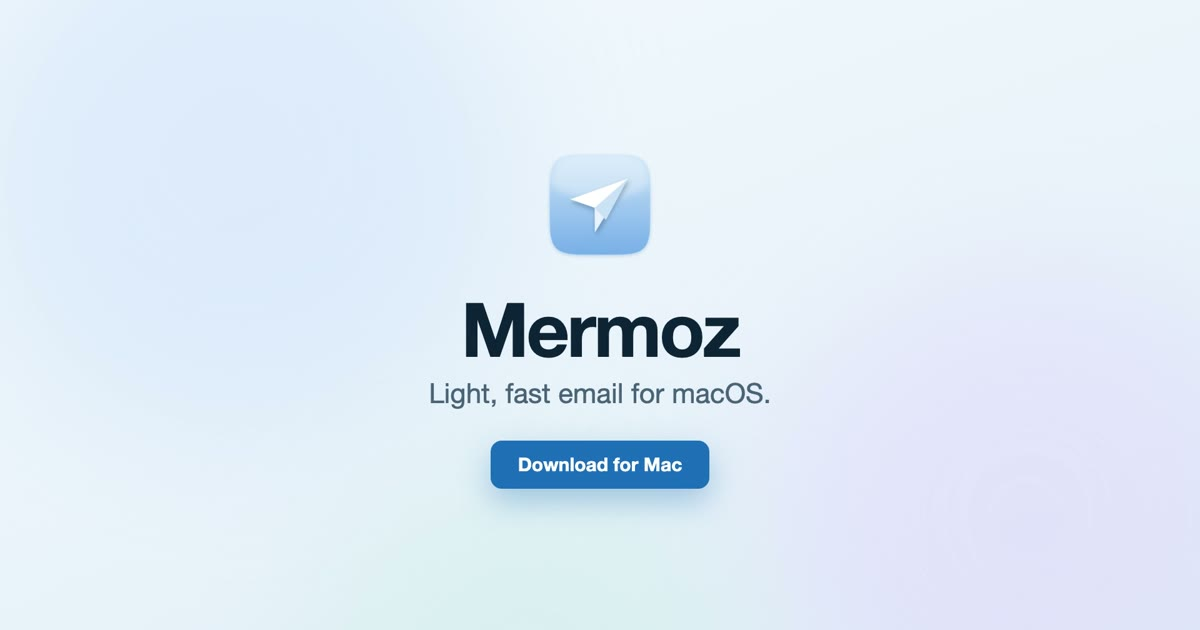
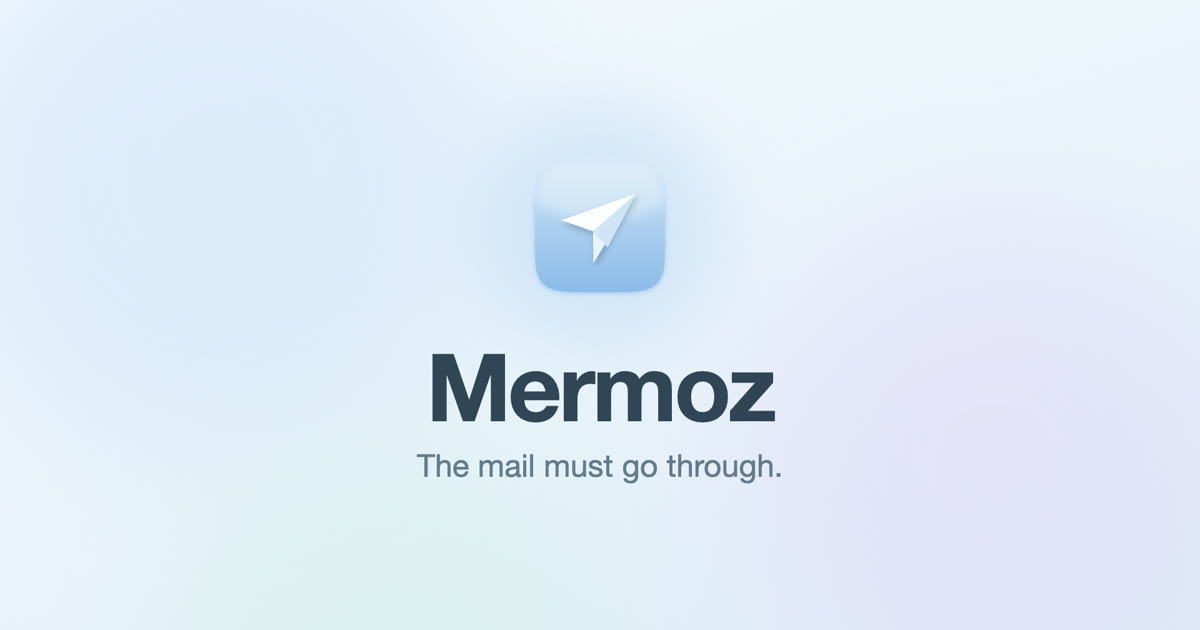
site: private beta sign-up; release plan
- the site reads as a private beta (banner, pill, title) and its main action is
  joining the list: the address goes to the 'Mermoz private beta' Google Form;
  download stays available for invited testers
- richer share tags (image size, type, alt, twitter:image) and a share image
  carrying the tagline
- docs/release-plan.md: private beta ops (admitting testers, invitation), signed
  and notarized builds with auto-update, Google verification, public launch

Changed region(s): [[0.3392, 0.2714, 0.6475, 0.8143]]

diff --git a/site/index.html b/site/index.html
@@ -3,7 +3,7 @@
 <head>
   <meta charset="utf-8">
   <meta name="viewport" content="width=device-width, initial-scale=1">
-  <title>Mermoz — The mail must go through</title>
+  <title>Mermoz — The mail must go through · Private beta</title>
   <meta name="description" content="Mermoz is a light, fast email app for macOS. New mail is sorted before you read it, one key handles a thread, and your whole mailbox lives on your Mac.">
   <link rel="canonical" href="https://mermoz.xyz/">
   <link rel="icon" type="image/png" href="assets/favicon.png">
@@ -11,9 +11,16 @@
   <meta property="og:type" content="website">
   <meta property="og:url" content="https://mermoz.xyz/">
   <meta property="og:title" content="Mermoz — The mail must go through">
-  <meta property="og:description" content="A light, fast email app for macOS, named after the Aéropostale pilot. Sorted before you read it. One key, done.">
+  <meta property="og:site_name" content="Mermoz">
+  <meta property="og:description" content="Private beta. A light, fast email app for macOS, named after the Aéropostale pilot. Sorted before you read it. One key, done.">
   <meta property="og:image" content="https://mermoz.xyz/assets/og.jpg">
+  <meta property="og:image:secure_url" content="https://mermoz.xyz/assets/og.jpg">
+  <meta property="og:image:type" content="image/jpeg">
+  <meta property="og:image:width" content="1200">
+  <meta property="og:image:height" content="630">
+  <meta property="og:image:alt" content="Mermoz — The mail must go through">
   <meta name="twitter:card" content="summary_large_image">
+  <meta name="twitter:image" content="https://mermoz.xyz/assets/og.jpg">
   <meta name="theme-color" content="#EAF3FB">
   <link rel="preconnect" href="https://fonts.googleapis.com">
   <link rel="preconnect" href="https://fonts.gstatic.com" crossorigin>
@@ -36,6 +43,8 @@
     </filter>
   </svg>
 
+  <div class="beta-bar">Mermoz is in <strong>private beta</strong> — <a href="#beta">join the list</a> and we'll open your access.</div>
+
   <header class="nav">
     <a class="brand" href="#top"><img src="assets/icon.png" alt="" width="34" height="34"> Mermoz</a>
     <nav>
@@ -43,7 +52,7 @@
       <a href="#features">Features</a>
       <a href="#agents">Agents</a>
       <a href="#story">Spirit</a>
-      <a class="nav-cta" href="#download">Download</a>
+      <a class="nav-cta" href="#beta">Join the beta</a>
     </nav>
   </header>
 
@@ -62,17 +71,19 @@
         </div>
       </div>
       <div class="hero-copy">
-        <p class="eyebrow">Mail for macOS · and for your agents</p>
+        <p class="eyebrow"><span class="beta-pill">Private beta</span> Mail for macOS · and for your agents</p>
         <h1 id="hero-title">The mail<br><em>must go through.</em></h1>
         <p class="lede">New mail is sorted before you read it. One key handles a thread. Your whole mailbox lives on your Mac, quiet and instant.</p>
-        <div class="ctas">
-          <a class="btn primary" href="https://github.com/ClementWalter/mermoz/releases/latest/download/Mermoz.dmg" data-download>
-            <svg viewBox="0 0 24 24" width="20" height="20" aria-hidden="true"><path fill="currentColor" d="M16.4 12.6c0-2.4 2-3.5 2-3.6-1.1-1.6-2.8-1.8-3.4-1.8-1.4-.1-2.8.9-3.5.9s-1.9-.9-3.1-.8c-1.6 0-3.1.9-3.9 2.4-1.7 2.9-.4 7.2 1.2 9.6.8 1.2 1.7 2.5 3 2.4 1.2 0 1.7-.8 3.1-.8 1.5 0 1.9.8 3.1.8 1.3 0 2.1-1.2 2.9-2.4.9-1.3 1.3-2.6 1.3-2.7 0 0-2.7-1-2.7-4zM14 5.4c.7-.8 1.1-1.9 1-3-1 0-2.1.7-2.8 1.5-.6.7-1.2 1.8-1 2.9 1.1.1 2.1-.6 2.8-1.4z"/></svg>
-            Download for Mac
-          </a>
-          <a class="btn ghost" href="#film">Watch the film <span aria-hidden="true">→</span></a>
+        <div class="hero-form">
+          <form class="beta-form" data-beta-form data-source="hero" novalidate>
+            <label class="sr-only" for="email-hero">Your email</label>
+            <input id="email-hero" type="email" name="email" placeholder="you@gmail.com" autocomplete="email" required>
+            <input class="hp" type="text" name="company" tabindex="-1" autocomplete="off" aria-hidden="true">
+            <button class="btn primary" type="submit">Join the beta</button>
+            <p class="form-msg" role="status" aria-live="polite"></p>
+          </form>
         </div>
-        <p class="fine">Free &amp; open source · macOS 26 · Gmail · Command line &amp; MCP built in</p>
+        <p class="fine">Free &amp; open source · macOS 26 · Gmail · <a href="#film">Watch the film</a> · Already invited? <a href="https://github.com/ClementWalter/mermoz/releases/latest/download/Mermoz.dmg" data-download>Download for Mac</a></p>
         <p class="note note-hero" aria-hidden="true">sorted in 0.25 s ↓</p>
       </div>
     </section>
@@ -173,13 +184,20 @@ the user to approve it in Mermoz.</span>  <span class="o"># exit 3</span></pre>
       </div>
     </section>
 
-    <section class="download" id="download" aria-labelledby="download-title">
+    <section class="download" id="beta" aria-labelledby="beta-title">
       <div class="paper-card download-card reveal">
+        <span class="beta-pill">Private beta</span>
         <img src="assets/icon.png" alt="Mermoz icon" width="112" height="112">
-        <h2 id="download-title">Take off.</h2>
-        <p>Mermoz is free and open source. Sign in with Gmail and your mail is on your Mac in minutes.</p>
-        <a class="btn primary big" href="https://github.com/ClementWalter/mermoz/releases/latest/download/Mermoz.dmg" data-download>Download for Mac</a>
-        <p class="fine">Requires macOS 26 · <a href="https://github.com/ClementWalter/mermoz">Source on GitHub</a></p>
+        <h2 id="beta-title">Board the first flights.</h2>
+        <p>Mermoz is in private beta while Google reviews its Gmail access. Leave the Gmail address you'll use, and we'll add it to the passenger list and email you when you can sign in.</p>
+        <form class="beta-form" data-beta-form data-source="bottom" novalidate>
+            <label class="sr-only" for="email-bottom">Your email</label>
+            <input id="email-bottom" type="email" name="email" placeholder="you@gmail.com" autocomplete="email" required>
+            <input class="hp" type="text" name="company" tabindex="-1" autocomplete="off" aria-hidden="true">
+            <button class="btn primary" type="submit">Join the beta</button>
+            <p class="form-msg" role="status" aria-live="polite"></p>
+          </form>
+        <p class="fine">Free &amp; open source · macOS 26 · Already invited? <a href="https://github.com/ClementWalter/mermoz/releases/latest/download/Mermoz.dmg" data-download>Download for Mac</a> · <a href="https://github.com/ClementWalter/mermoz">Source on GitHub</a></p>
       </div>
     </section>
   </main>

diff --git a/site/style.css b/site/style.css
@@ -49,10 +49,60 @@ kbd {
   box-shadow: 0 1px 0 var(--line);
 }
 
+/* Private beta: the banner on top, the pill, and the sign-up form. */
+.beta-bar {
+  position: fixed;
+  top: 0;
+  left: 0;
+  right: 0;
+  z-index: 45;
+  text-align: center;
+  font-size: 14px;
+  padding: 9px 16px;
+  background: var(--accent);
+  color: #fff;
+}
+.beta-bar a { color: #fff; font-weight: 600; }
+.beta-pill {
+  display: inline-block;
+  font-size: 12px;
+  font-weight: 700;
+  letter-spacing: 0.08em;
+  text-transform: uppercase;
+  color: var(--accent);
+  background: var(--accent-soft);
+  border: 1px solid #fff;
+  border-radius: 999px;
+  padding: 4px 10px;
+  margin-right: 8px;
+}
+.download-card .beta-pill { margin: 0 0 14px; }
+.beta-form { display: flex; flex-wrap: wrap; gap: 10px; justify-content: center; max-width: 520px; margin: 0 auto; }
+.beta-form input[type="email"] {
+  flex: 1 1 260px;
+  font: inherit;
+  font-size: 17px;
+  padding: 15px 18px;
+  border-radius: 16px;
+  border: 1px solid #fff;
+  background: rgba(255, 255, 255, 0.85);
+  box-shadow: inset 0 0 0 1px var(--line), 0 10px 30px rgba(31, 111, 181, 0.10);
+  color: var(--ink);
+}
+.beta-form input[type="email"]:focus { outline: 2px solid var(--accent); outline-offset: 1px; }
+.beta-form button { border: 0; cursor: pointer; font: inherit; font-weight: 600; font-size: 17px; }
+.beta-form .hp { position: absolute; left: -9999px; width: 1px; height: 1px; opacity: 0; }
+.form-msg { flex-basis: 100%; margin: 4px 0 0; font-size: 15px; min-height: 1.2em; text-align: center; color: var(--ink-2); }
+.form-msg.ok { color: #2E9A6B; font-weight: 600; }
+.form-msg.err { color: #C93A3A; }
+.beta-form.done input, .beta-form.done button { display: none; }
+.sr-only { position: absolute; width: 1px; height: 1px; overflow: hidden; clip: rect(0 0 0 0); white-space: nowrap; }
+.hero-form { margin-top: 6px; }
+
 /* Navigation: a floating glass bar. */
 .nav {
   position: fixed;
-  top: 16px;
+  top: 52px;
   left: 50%;
   transform: translateX(-50%);
   z-index: 40;
@@ -82,7 +132,7 @@ kbd {
   display: flex;
   align-items: center;
   justify-content: center;
-  padding: 130px 24px 80px;
+  padding: 170px 24px 80px;
   overflow: hidden;
   background:
     radial-gradient(1200px 600px at 20% 10%, #F8FBFF 0%, transparent 60%),

diff --git a/site/main.js b/site/main.js
@@ -149,6 +149,39 @@
     requestAnimationFrame(frame);
   }
 
+  // Beta sign-up: the address goes to the Mermoz beta Google Form (its responses are
+  // the passenger list). A cross-origin POST can't be read back, so success means the
+  // request left; the hidden "company" field catches bots.
+  const FORM = "https://docs.google.com/forms/d/e/1FAIpQLSfmXDOdAhuseGM4E348LK5xBR31b9Xdkbu0ergYQw81jB2ZOg/formResponse";
+  const EMAIL_FIELD = "entry.1376824829";
+  document.querySelectorAll("[data-beta-form]").forEach((form) => {
+    const msg = form.querySelector(".form-msg");
+    form.addEventListener("submit", async (e) => {
+      e.preventDefault();
+      const email = form.email.value.trim();
+      if (form.company.value) return;
+      if (!/^[^@\s]+@[^@\s]+\.[^@\s]+$/.test(email)) {
+        msg.className = "form-msg err";
+        msg.textContent = "That address doesn't look right.";
+        return;
+      }
+      const button = form.querySelector("button");
+      button.disabled = true;
+      button.textContent = "Sending…";
+      try {
+        await fetch(FORM, { method: "POST", mode: "no-cors", body: new URLSearchParams({ [EMAIL_FIELD]: email }) });
+        form.classList.add("done");
+        msg.className = "form-msg ok";
+        msg.textContent = "You're on the passenger list. We'll email you when your access opens. ✈";
+      } catch {
+        button.disabled = false;
+        button.textContent = "Join the beta";
+        msg.className = "form-msg err";
+        msg.textContent = "Couldn't send. Check your connection and try again.";
+      }
+    });
+  });
+
   // Sections rise into place as they scroll into view.
   const io = new IntersectionObserver(
     (entries) => entries.forEach((e) => e.isIntersecting && (e.target.classList.add("shown"), io.unobserve(e.target))),

diff --git a/docs/release-plan.md b/docs/release-plan.md
@@ -1,0 +1,116 @@
+# Mermoz release plan
+
+From today's private beta to a public download anyone can install and sign in to.
+Each phase lists what blocks it, who does what, and how we know it's done.
+
+## Where we are (12 Oct 2026)
+
+- **App:** v0.1.0 (beta) on GitHub Releases as `Mermoz.dmg`, built by
+  `scripts/release.py --publish`. Ad-hoc signed, not notarized.
+- **Site:** https://mermoz.xyz (GitHub Pages, HTTPS) with the film, a private-beta
+  banner and a sign-up form. Sign-ups land in the Google Form "Mermoz private beta"
+  (account clement0walter@gmail.com) → Responses.
+- **Gmail access:** Google Cloud project `mermoz-mail`, OAuth consent screen in
+  **Testing**: only listed test users (max 100) can sign in, and their sign-in
+  expires after 7 days.
+- **Distribution blockers:** macOS shows "unverified developer" on first open;
+  Gmail sign-in is limited to test users.
+
+## Phase 1 — Private beta (now → ~4 weeks)
+
+Goal: 30–100 real users, real mailboxes, a steady weekly release.
+
+**Admitting a tester** (5 minutes per batch):
+1. Open the form's Responses (or the linked Sheet) and pick the new addresses.
+2. Google Cloud Console → `mermoz-mail` → Google Auth Platform → **Audience** →
+   **Test users** → Add users → paste the Gmail addresses → Save.
+3. Send the invitation email (template below).
+
+**Invitation template**
+
+> Subject: Your Mermoz boarding pass ✈
+>
+> Hi, you're in. Download Mermoz at https://mermoz.xyz (Already invited? › Download
+> for Mac), drag it to Applications, then right-click › Open the first time (macOS
+> asks because the beta isn't notarized yet). Sign in with this Gmail address.
+> During the beta Google asks you to sign in again once a week. Reply to this email
+> with anything that feels slow, confusing or broken.
+
+**Release cadence:** bump `VERSION` in `scripts/build_app.py`, run
+`scripts/release.py --publish`. The site's button always serves the newest DMG.
+
+**What we watch:**
+- Import of large mailboxes and the time to a first usable inbox.
+- Sign-in failures (the weekly expiry must show a friendly "Sign in again").
+- Feedback by email and `mermoz feedback` (agents), triaged weekly into issues.
+
+**Exit criteria:** a week without data-loss or sync bugs on 20+ active testers;
+onboarding works without help.
+
+## Phase 2 — Trusted install on macOS (in parallel, ~1–2 weeks of setup)
+
+Goal: double-click to open, no warning; automatic updates.
+
+1. **Apple Developer Program** (Clément, $99/year) → Developer ID Application
+   certificate.
+2. **Sign with Hardened Runtime**: app, `mermozd`, `mermoz` and the bundled `ant`;
+   then the DMG. (Claude: switch `build_app.py` from ad-hoc to Developer ID.)
+3. **Notarize** with `notarytool` (App Store Connect API key) and **staple** the
+   ticket to the DMG.
+4. **Auto-update** with Sparkle: an appcast feed on mermoz.xyz, EdDSA-signed
+   updates, "Check for updates" in the app.
+5. **CI release**: a GitHub Actions macOS workflow on tag `v*` building, signing,
+   notarizing and publishing, with secrets for the certificate, the notary key and
+   the Google client.
+
+**Done when:** a fresh Mac downloads, opens and updates Mermoz with no warning.
+
+## Phase 3 — Google verification (start now, the longest pole: weeks)
+
+Goal: anyone with a Gmail account can sign in, without the 7-day expiry.
+
+1. **Domain:** verify mermoz.xyz in Google Search Console with the same Google
+   account as the Cloud project.
+2. **Public pages on mermoz.xyz:** Privacy policy and Terms (what is stored
+   locally, what goes to AI providers and only when the user enables it, how to
+   delete data, contact), linked from the homepage.
+3. **Consent screen:** app name, logo, support email, homepage, privacy and terms
+   links, authorized domain mermoz.xyz.
+4. **Scopes:** request only what the app uses and justify each one. Gmail read and
+   modify scopes are **restricted** scopes.
+5. **Demo video:** the OAuth consent flow and every feature that uses each scope.
+6. **Security assessment (CASA):** restricted Gmail scopes normally require an
+   annual third-party assessment by a Google-approved lab (paid). To confirm with
+   Google during review: Mermoz keeps mail on the device, but optional AI features
+   send message content to AI providers, which likely keeps the assessment in scope.
+7. Submit, answer reviewer questions, iterate.
+
+**Done when:** the consent screen is "In production" and verified.
+
+## Phase 4 — Public launch
+
+Prerequisites: Phases 2 and 3 done; Phase 1 exit criteria met.
+
+- Site: replace the waitlist with **Download for Mac** as the primary action; keep a
+  newsletter field.
+- Launch posts with the film (16:9 and 9:16 in `marketing/video/out`): X, LinkedIn,
+  Hacker News (Show HN), Product Hunt, r/macapps.
+- Support: a public issue tracker and a support email on the site.
+
+## Legal and trust (before Phase 3 submission)
+
+- Privacy policy and terms (EU/GDPR: data stays on the device; AI providers act on
+  the user's request with the user's own account or key).
+- AI disclosure in the app's first run: which features send content, to whom, and
+  that they are off until turned on.
+- Open-source license file and third-party notices (the bundled `ant` CLI is MIT).
+
+## Owners
+
+| Item | Clément | Claude |
+| --- | --- | --- |
+| Add testers, send invitations | ✓ | invitation automation if wanted |
+| Apple Developer account, certificates | ✓ | signing, notarization, Sparkle, CI |
+| Search Console, consent screen, video | ✓ | privacy/terms pages, scope audit, video script |
+| CASA assessment | ✓ (vendor, payment) | evidence, fixes |
+| Weekly releases | approve | build, test, publish |
